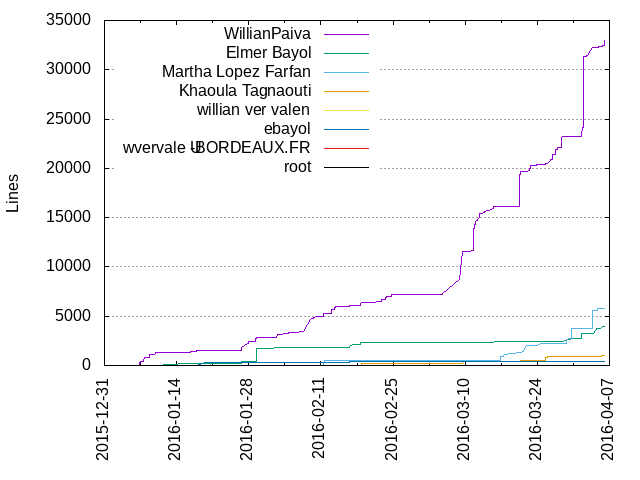
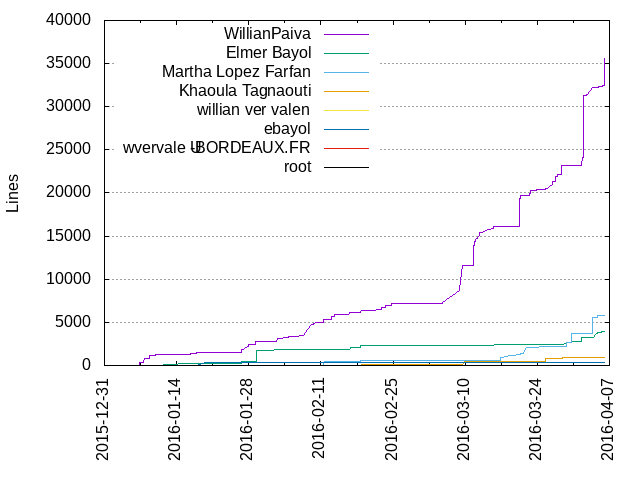
update

diff --git a/GitStats/activity.html b/GitStats/activity.html
@@ -22,27 +22,27 @@
 
 <h2 id="weekly_activity"><a href="#weekly_activity">Weekly activity</a></h2>
 
-<p>Last 32 weeks</p><table class="noborders"><tr><td style="text-align: center; vertical-align: bottom">0<div style="display: block; background-color: red; width: 20px; height: 1px"></div></td><td style="text-align: center; vertical-align: bottom">0<div style="display: block; background-color: red; width: 20px; height: 1px"></div></td><td style="text-align: center; vertical-align: bottom">0<div style="display: block; background-color: red; width: 20px; height: 1px"></div></td><td style="text-align: center; vertical-align: bottom">0<div style="display: block; background-color: red; width: 20px; height: 1px"></div></td><td style="text-align: center; vertical-align: bottom">0<div style="display: block; background-color: red; width: 20px; height: 1px"></div></td><td style="text-align: center; vertical-align: bottom">0<div style="display: block; background-color: red; width: 20px; height: 1px"></div></td><td style="text-align: center; vertical-align: bottom">0<div style="display: block; background-color: red; width: 20px; height: 1px"></div></td><td style="text-align: center; vertical-align: bottom">0<div style="display: block; background-color: red; width: 20px; height: 1px"></div></td><td style="text-align: center; vertical-align: bottom">0<div style="display: block; background-color: red; width: 20px; height: 1px"></div></td><td style="text-align: center; vertical-align: bottom">0<div style="display: block; background-color: red; width: 20px; height: 1px"></div></td><td style="text-align: center; vertical-align: bottom">0<div style="display: block; background-color: red; width: 20px; height: 1px"></div></td><td style="text-align: center; vertical-align: bottom">0<div style="display: block; background-color: red; width: 20px; height: 1px"></div></td><td style="text-align: center; vertical-align: bottom">0<div style="display: block; background-color: red; width: 20px; height: 1px"></div></td><td style="text-align: center; vertical-align: bottom">0<div style="display: block; background-color: red; width: 20px; height: 1px"></div></td><td style="text-align: center; vertical-align: bottom">0<div style="display: block; background-color: red; width: 20px; height: 1px"></div></td><td style="text-align: center; vertical-align: bottom">0<div style="display: block; background-color: red; width: 20px; height: 1px"></div></td><td style="text-align: center; vertical-align: bottom">0<div style="display: block; background-color: red; width: 20px; height: 1px"></div></td><td style="text-align: center; vertical-align: bottom">0<div style="display: block; background-color: red; width: 20px; height: 1px"></div></td><td style="text-align: center; vertical-align: bottom">40<div style="display: block; background-color: red; width: 20px; height: 84px"></div></td><td style="text-align: center; vertical-align: bottom">17<div style="display: block; background-color: red; width: 20px; height: 35px"></div></td><td style="text-align: center; vertical-align: bottom">1<div style="display: block; background-color: red; width: 20px; height: 2px"></div></td><td style="text-align: center; vertical-align: bottom">33<div style="display: block; background-color: red; width: 20px; height: 69px"></div></td><td style="text-align: center; vertical-align: bottom">41<div style="display: block; background-color: red; width: 20px; height: 86px"></div></td><td style="text-align: center; vertical-align: bottom">48<div style="display: block; background-color: red; width: 20px; height: 101px"></div></td><td style="text-align: center; vertical-align: bottom">57<div style="display: block; background-color: red; width: 20px; height: 120px"></div></td><td style="text-align: center; vertical-align: bottom">17<div style="display: block; background-color: red; width: 20px; height: 35px"></div></td><td style="text-align: center; vertical-align: bottom">12<div style="display: block; background-color: red; width: 20px; height: 25px"></div></td><td style="text-align: center; vertical-align: bottom">42<div style="display: block; background-color: red; width: 20px; height: 88px"></div></td><td style="text-align: center; vertical-align: bottom">28<div style="display: block; background-color: red; width: 20px; height: 58px"></div></td><td style="text-align: center; vertical-align: bottom">89<div style="display: block; background-color: red; width: 20px; height: 187px"></div></td><td style="text-align: center; vertical-align: bottom">95<div style="display: block; background-color: red; width: 20px; height: 200px"></div></td><td style="text-align: center; vertical-align: bottom">65<div style="display: block; background-color: red; width: 20px; height: 136px"></div></td></tr><tr><td>32</td><td>31</td><td>30</td><td>29</td><td>28</td><td>27</td><td>26</td><td>25</td><td>24</td><td>23</td><td>22</td><td>21</td><td>20</td><td>19</td><td>18</td><td>17</td><td>16</td><td>15</td><td>14</td><td>13</td><td>12</td><td>11</td><td>10</td><td>9</td><td>8</td><td>7</td><td>6</td><td>5</td><td>4</td><td>3</td><td>2</td><td>1</td></tr></table>
+<p>Last 32 weeks</p><table class="noborders"><tr><td style="text-align: center; vertical-align: bottom">0<div style="display: block; background-color: red; width: 20px; height: 1px"></div></td><td style="text-align: center; vertical-align: bottom">0<div style="display: block; background-color: red; width: 20px; height: 1px"></div></td><td style="text-align: center; vertical-align: bottom">0<div style="display: block; background-color: red; width: 20px; height: 1px"></div></td><td style="text-align: center; vertical-align: bottom">0<div style="display: block; background-color: red; width: 20px; height: 1px"></div></td><td style="text-align: center; vertical-align: bottom">0<div style="display: block; background-color: red; width: 20px; height: 1px"></div></td><td style="text-align: center; vertical-align: bottom">0<div style="display: block; background-color: red; width: 20px; height: 1px"></div></td><td style="text-align: center; vertical-align: bottom">0<div style="display: block; background-color: red; width: 20px; height: 1px"></div></td><td style="text-align: center; vertical-align: bottom">0<div style="display: block; background-color: red; width: 20px; height: 1px"></div></td><td style="text-align: center; vertical-align: bottom">0<div style="display: block; background-color: red; width: 20px; height: 1px"></div></td><td style="text-align: center; vertical-align: bottom">0<div style="display: block; background-color: red; width: 20px; height: 1px"></div></td><td style="text-align: center; vertical-align: bottom">0<div style="display: block; background-color: red; width: 20px; height: 1px"></div></td><td style="text-align: center; vertical-align: bottom">0<div style="display: block; background-color: red; width: 20px; height: 1px"></div></td><td style="text-align: center; vertical-align: bottom">0<div style="display: block; background-color: red; width: 20px; height: 1px"></div></td><td style="text-align: center; vertical-align: bottom">0<div style="display: block; background-color: red; width: 20px; height: 1px"></div></td><td style="text-align: center; vertical-align: bottom">0<div style="display: block; background-color: red; width: 20px; height: 1px"></div></td><td style="text-align: center; vertical-align: bottom">0<div style="display: block; background-color: red; width: 20px; height: 1px"></div></td><td style="text-align: center; vertical-align: bottom">0<div style="display: block; background-color: red; width: 20px; height: 1px"></div></td><td style="text-align: center; vertical-align: bottom">0<div style="display: block; background-color: red; width: 20px; height: 1px"></div></td><td style="text-align: center; vertical-align: bottom">40<div style="display: block; background-color: red; width: 20px; height: 84px"></div></td><td style="text-align: center; vertical-align: bottom">17<div style="display: block; background-color: red; width: 20px; height: 35px"></div></td><td style="text-align: center; vertical-align: bottom">1<div style="display: block; background-color: red; width: 20px; height: 2px"></div></td><td style="text-align: center; vertical-align: bottom">33<div style="display: block; background-color: red; width: 20px; height: 69px"></div></td><td style="text-align: center; vertical-align: bottom">41<div style="display: block; background-color: red; width: 20px; height: 86px"></div></td><td style="text-align: center; vertical-align: bottom">48<div style="display: block; background-color: red; width: 20px; height: 101px"></div></td><td style="text-align: center; vertical-align: bottom">57<div style="display: block; background-color: red; width: 20px; height: 120px"></div></td><td style="text-align: center; vertical-align: bottom">17<div style="display: block; background-color: red; width: 20px; height: 35px"></div></td><td style="text-align: center; vertical-align: bottom">12<div style="display: block; background-color: red; width: 20px; height: 25px"></div></td><td style="text-align: center; vertical-align: bottom">42<div style="display: block; background-color: red; width: 20px; height: 88px"></div></td><td style="text-align: center; vertical-align: bottom">28<div style="display: block; background-color: red; width: 20px; height: 58px"></div></td><td style="text-align: center; vertical-align: bottom">89<div style="display: block; background-color: red; width: 20px; height: 187px"></div></td><td style="text-align: center; vertical-align: bottom">95<div style="display: block; background-color: red; width: 20px; height: 200px"></div></td><td style="text-align: center; vertical-align: bottom">66<div style="display: block; background-color: red; width: 20px; height: 138px"></div></td></tr><tr><td>32</td><td>31</td><td>30</td><td>29</td><td>28</td><td>27</td><td>26</td><td>25</td><td>24</td><td>23</td><td>22</td><td>21</td><td>20</td><td>19</td><td>18</td><td>17</td><td>16</td><td>15</td><td>14</td><td>13</td><td>12</td><td>11</td><td>10</td><td>9</td><td>8</td><td>7</td><td>6</td><td>5</td><td>4</td><td>3</td><td>2</td><td>1</td></tr></table>
 <h2 id="hour_of_day"><a href="#hour_of_day">Hour of Day</a></h2>
 
 <table><tr><th>Hour</th><th>0</th><th>1</th><th>2</th><th>3</th><th>4</th><th>5</th><th>6</th><th>7</th><th>8</th><th>9</th><th>10</th><th>11</th><th>12</th><th>13</th><th>14</th><th>15</th><th>16</th><th>17</th><th>18</th><th>19</th><th>20</th><th>21</th><th>22</th><th>23</th></tr>
-<tr><th>Commits</th><td style="background-color: rgb(159, 0, 0)">18</td><td style="background-color: rgb(161, 0, 0)">19</td><td>0</td><td style="background-color: rgb(130, 0, 0)">2</td><td>0</td><td>0</td><td>0</td><td>0</td><td style="background-color: rgb(139, 0, 0)">7</td><td style="background-color: rgb(141, 0, 0)">8</td><td style="background-color: rgb(148, 0, 0)">12</td><td style="background-color: rgb(170, 0, 0)">24</td><td style="background-color: rgb(166, 0, 0)">22</td><td style="background-color: rgb(193, 0, 0)">37</td><td style="background-color: rgb(222, 0, 0)">53</td><td style="background-color: rgb(208, 0, 0)">45</td><td style="background-color: rgb(247, 0, 0)">67</td><td style="background-color: rgb(255, 0, 0)">71</td><td style="background-color: rgb(188, 0, 0)">34</td><td style="background-color: rgb(193, 0, 0)">37</td><td style="background-color: rgb(175, 0, 0)">27</td><td style="background-color: rgb(195, 0, 0)">38</td><td style="background-color: rgb(172, 0, 0)">25</td><td style="background-color: rgb(197, 0, 0)">39</td></tr>
-<tr><th>%</th><td style="background-color: rgb(159, 0, 0)">3.08</td><td style="background-color: rgb(161, 0, 0)">3.25</td><td>0.00</td><td style="background-color: rgb(130, 0, 0)">0.34</td><td>0.00</td><td>0.00</td><td>0.00</td><td>0.00</td><td style="background-color: rgb(139, 0, 0)">1.20</td><td style="background-color: rgb(141, 0, 0)">1.37</td><td style="background-color: rgb(148, 0, 0)">2.05</td><td style="background-color: rgb(170, 0, 0)">4.10</td><td style="background-color: rgb(166, 0, 0)">3.76</td><td style="background-color: rgb(193, 0, 0)">6.32</td><td style="background-color: rgb(222, 0, 0)">9.06</td><td style="background-color: rgb(208, 0, 0)">7.69</td><td style="background-color: rgb(247, 0, 0)">11.45</td><td style="background-color: rgb(255, 0, 0)">12.14</td><td style="background-color: rgb(188, 0, 0)">5.81</td><td style="background-color: rgb(193, 0, 0)">6.32</td><td style="background-color: rgb(175, 0, 0)">4.62</td><td style="background-color: rgb(195, 0, 0)">6.50</td><td style="background-color: rgb(172, 0, 0)">4.27</td><td style="background-color: rgb(197, 0, 0)">6.67</td></tr></table><img src="hour_of_day.png" alt="Hour of Day">
+<tr><th>Commits</th><td style="background-color: rgb(159, 0, 0)">18</td><td style="background-color: rgb(161, 0, 0)">19</td><td style="background-color: rgb(128, 0, 0)">1</td><td style="background-color: rgb(130, 0, 0)">2</td><td>0</td><td>0</td><td>0</td><td>0</td><td style="background-color: rgb(139, 0, 0)">7</td><td style="background-color: rgb(141, 0, 0)">8</td><td style="background-color: rgb(148, 0, 0)">12</td><td style="background-color: rgb(170, 0, 0)">24</td><td style="background-color: rgb(166, 0, 0)">22</td><td style="background-color: rgb(193, 0, 0)">37</td><td style="background-color: rgb(222, 0, 0)">53</td><td style="background-color: rgb(208, 0, 0)">45</td><td style="background-color: rgb(247, 0, 0)">67</td><td style="background-color: rgb(255, 0, 0)">71</td><td style="background-color: rgb(188, 0, 0)">34</td><td style="background-color: rgb(193, 0, 0)">37</td><td style="background-color: rgb(175, 0, 0)">27</td><td style="background-color: rgb(195, 0, 0)">38</td><td style="background-color: rgb(172, 0, 0)">25</td><td style="background-color: rgb(197, 0, 0)">39</td></tr>
+<tr><th>%</th><td style="background-color: rgb(159, 0, 0)">3.07</td><td style="background-color: rgb(161, 0, 0)">3.24</td><td style="background-color: rgb(128, 0, 0)">0.17</td><td style="background-color: rgb(130, 0, 0)">0.34</td><td>0.00</td><td>0.00</td><td>0.00</td><td>0.00</td><td style="background-color: rgb(139, 0, 0)">1.19</td><td style="background-color: rgb(141, 0, 0)">1.37</td><td style="background-color: rgb(148, 0, 0)">2.05</td><td style="background-color: rgb(170, 0, 0)">4.10</td><td style="background-color: rgb(166, 0, 0)">3.75</td><td style="background-color: rgb(193, 0, 0)">6.31</td><td style="background-color: rgb(222, 0, 0)">9.04</td><td style="background-color: rgb(208, 0, 0)">7.68</td><td style="background-color: rgb(247, 0, 0)">11.43</td><td style="background-color: rgb(255, 0, 0)">12.12</td><td style="background-color: rgb(188, 0, 0)">5.80</td><td style="background-color: rgb(193, 0, 0)">6.31</td><td style="background-color: rgb(175, 0, 0)">4.61</td><td style="background-color: rgb(195, 0, 0)">6.48</td><td style="background-color: rgb(172, 0, 0)">4.27</td><td style="background-color: rgb(197, 0, 0)">6.66</td></tr></table><img src="hour_of_day.png" alt="Hour of Day">
 <h2 id="day_of_week"><a href="#day_of_week">Day of Week</a></h2>
 
-<div class="vtable"><table><tr><th>Day</th><th>Total (%)</th></tr><tr><th>Mon</th><td>57 (9.74%)</td></tr><tr><th>Tue</th><td>132 (22.56%)</td></tr><tr><th>Wed</th><td>62 (10.60%)</td></tr><tr><th>Thu</th><td>70 (11.97%)</td></tr><tr><th>Fri</th><td>101 (17.26%)</td></tr><tr><th>Sat</th><td>103 (17.61%)</td></tr><tr><th>Sun</th><td>60 (10.26%)</td></tr></table></div><img src="day_of_week.png" alt="Day of Week">
+<div class="vtable"><table><tr><th>Day</th><th>Total (%)</th></tr><tr><th>Mon</th><td>57 (9.73%)</td></tr><tr><th>Tue</th><td>132 (22.53%)</td></tr><tr><th>Wed</th><td>63 (10.75%)</td></tr><tr><th>Thu</th><td>70 (11.95%)</td></tr><tr><th>Fri</th><td>101 (17.24%)</td></tr><tr><th>Sat</th><td>103 (17.58%)</td></tr><tr><th>Sun</th><td>60 (10.24%)</td></tr></table></div><img src="day_of_week.png" alt="Day of Week">
 <h2 id="hour_of_week"><a href="#hour_of_week">Hour of Week</a></h2>
 
-<table><tr><th>Weekday</th><th>0</th><th>1</th><th>2</th><th>3</th><th>4</th><th>5</th><th>6</th><th>7</th><th>8</th><th>9</th><th>10</th><th>11</th><th>12</th><th>13</th><th>14</th><th>15</th><th>16</th><th>17</th><th>18</th><th>19</th><th>20</th><th>21</th><th>22</th><th>23</th></tr><tr><th>Mon</th><td></td><td></td><td></td><td></td><td></td><td></td><td></td><td></td><td style="background-color: rgb(136, 0, 0)">2</td><td style="background-color: rgb(136, 0, 0)">2</td><td></td><td style="background-color: rgb(136, 0, 0)">2</td><td></td><td></td><td style="background-color: rgb(141, 0, 0)">3</td><td style="background-color: rgb(141, 0, 0)">3</td><td style="background-color: rgb(183, 0, 0)">12</td><td style="background-color: rgb(164, 0, 0)">8</td><td style="background-color: rgb(150, 0, 0)">5</td><td style="background-color: rgb(169, 0, 0)">9</td><td></td><td style="background-color: rgb(131, 0, 0)">1</td><td></td><td style="background-color: rgb(174, 0, 0)">10</td></tr><tr><th>Tue</th><td style="background-color: rgb(131, 0, 0)">1</td><td style="background-color: rgb(131, 0, 0)">1</td><td></td><td></td><td></td><td></td><td></td><td></td><td></td><td style="background-color: rgb(136, 0, 0)">2</td><td style="background-color: rgb(145, 0, 0)">4</td><td style="background-color: rgb(183, 0, 0)">12</td><td style="background-color: rgb(155, 0, 0)">6</td><td style="background-color: rgb(179, 0, 0)">11</td><td style="background-color: rgb(226, 0, 0)">21</td><td style="background-color: rgb(174, 0, 0)">10</td><td style="background-color: rgb(255, 0, 0)">27</td><td style="background-color: rgb(221, 0, 0)">20</td><td style="background-color: rgb(160, 0, 0)">7</td><td></td><td style="background-color: rgb(145, 0, 0)">4</td><td style="background-color: rgb(136, 0, 0)">2</td><td style="background-color: rgb(136, 0, 0)">2</td><td style="background-color: rgb(136, 0, 0)">2</td></tr><tr><th>Wed</th><td></td><td style="background-color: rgb(179, 0, 0)">11</td><td></td><td></td><td></td><td></td><td></td><td></td><td></td><td></td><td style="background-color: rgb(131, 0, 0)">1</td><td></td><td></td><td style="background-color: rgb(131, 0, 0)">1</td><td style="background-color: rgb(136, 0, 0)">2</td><td style="background-color: rgb(131, 0, 0)">1</td><td style="background-color: rgb(136, 0, 0)">2</td><td style="background-color: rgb(155, 0, 0)">6</td><td style="background-color: rgb(136, 0, 0)">2</td><td style="background-color: rgb(150, 0, 0)">5</td><td style="background-color: rgb(160, 0, 0)">7</td><td style="background-color: rgb(179, 0, 0)">11</td><td style="background-color: rgb(164, 0, 0)">8</td><td style="background-color: rgb(150, 0, 0)">5</td></tr><tr><th>Thu</th><td style="background-color: rgb(150, 0, 0)">5</td><td></td><td></td><td></td><td></td><td></td><td></td><td></td><td></td><td></td><td style="background-color: rgb(141, 0, 0)">3</td><td style="background-color: rgb(160, 0, 0)">7</td><td style="background-color: rgb(136, 0, 0)">2</td><td style="background-color: rgb(136, 0, 0)">2</td><td style="background-color: rgb(145, 0, 0)">4</td><td style="background-color: rgb(164, 0, 0)">8</td><td style="background-color: rgb(136, 0, 0)">2</td><td style="background-color: rgb(202, 0, 0)">16</td><td style="background-color: rgb(169, 0, 0)">9</td><td style="background-color: rgb(131, 0, 0)">1</td><td style="background-color: rgb(131, 0, 0)">1</td><td style="background-color: rgb(150, 0, 0)">5</td><td style="background-color: rgb(141, 0, 0)">3</td><td style="background-color: rgb(136, 0, 0)">2</td></tr><tr><th>Fri</th><td></td><td></td><td></td><td style="background-color: rgb(136, 0, 0)">2</td><td></td><td></td><td></td><td></td><td style="background-color: rgb(150, 0, 0)">5</td><td style="background-color: rgb(145, 0, 0)">4</td><td style="background-color: rgb(141, 0, 0)">3</td><td style="background-color: rgb(131, 0, 0)">1</td><td style="background-color: rgb(145, 0, 0)">4</td><td style="background-color: rgb(164, 0, 0)">8</td><td style="background-color: rgb(155, 0, 0)">6</td><td style="background-color: rgb(160, 0, 0)">7</td><td style="background-color: rgb(202, 0, 0)">16</td><td style="background-color: rgb(155, 0, 0)">6</td><td></td><td style="background-color: rgb(169, 0, 0)">9</td><td style="background-color: rgb(150, 0, 0)">5</td><td style="background-color: rgb(164, 0, 0)">8</td><td></td><td style="background-color: rgb(207, 0, 0)">17</td></tr><tr><th>Sat</th><td style="background-color: rgb(183, 0, 0)">12</td><td style="background-color: rgb(160, 0, 0)">7</td><td></td><td></td><td></td><td></td><td></td><td></td><td></td><td></td><td style="background-color: rgb(131, 0, 0)">1</td><td style="background-color: rgb(131, 0, 0)">1</td><td style="background-color: rgb(174, 0, 0)">10</td><td style="background-color: rgb(198, 0, 0)">15</td><td style="background-color: rgb(183, 0, 0)">12</td><td style="background-color: rgb(145, 0, 0)">4</td><td style="background-color: rgb(131, 0, 0)">1</td><td style="background-color: rgb(179, 0, 0)">11</td><td style="background-color: rgb(169, 0, 0)">9</td><td style="background-color: rgb(155, 0, 0)">6</td><td></td><td style="background-color: rgb(160, 0, 0)">7</td><td style="background-color: rgb(155, 0, 0)">6</td><td style="background-color: rgb(131, 0, 0)">1</td></tr><tr><th>Sun</th><td></td><td></td><td></td><td></td><td></td><td></td><td></td><td></td><td></td><td></td><td></td><td style="background-color: rgb(131, 0, 0)">1</td><td></td><td></td><td style="background-color: rgb(150, 0, 0)">5</td><td style="background-color: rgb(183, 0, 0)">12</td><td style="background-color: rgb(160, 0, 0)">7</td><td style="background-color: rgb(145, 0, 0)">4</td><td style="background-color: rgb(136, 0, 0)">2</td><td style="background-color: rgb(160, 0, 0)">7</td><td style="background-color: rgb(174, 0, 0)">10</td><td style="background-color: rgb(145, 0, 0)">4</td><td style="background-color: rgb(155, 0, 0)">6</td><td style="background-color: rgb(136, 0, 0)">2</td></tr></table>
+<table><tr><th>Weekday</th><th>0</th><th>1</th><th>2</th><th>3</th><th>4</th><th>5</th><th>6</th><th>7</th><th>8</th><th>9</th><th>10</th><th>11</th><th>12</th><th>13</th><th>14</th><th>15</th><th>16</th><th>17</th><th>18</th><th>19</th><th>20</th><th>21</th><th>22</th><th>23</th></tr><tr><th>Mon</th><td></td><td></td><td></td><td></td><td></td><td></td><td></td><td></td><td style="background-color: rgb(136, 0, 0)">2</td><td style="background-color: rgb(136, 0, 0)">2</td><td></td><td style="background-color: rgb(136, 0, 0)">2</td><td></td><td></td><td style="background-color: rgb(141, 0, 0)">3</td><td style="background-color: rgb(141, 0, 0)">3</td><td style="background-color: rgb(183, 0, 0)">12</td><td style="background-color: rgb(164, 0, 0)">8</td><td style="background-color: rgb(150, 0, 0)">5</td><td style="background-color: rgb(169, 0, 0)">9</td><td></td><td style="background-color: rgb(131, 0, 0)">1</td><td></td><td style="background-color: rgb(174, 0, 0)">10</td></tr><tr><th>Tue</th><td style="background-color: rgb(131, 0, 0)">1</td><td style="background-color: rgb(131, 0, 0)">1</td><td></td><td></td><td></td><td></td><td></td><td></td><td></td><td style="background-color: rgb(136, 0, 0)">2</td><td style="background-color: rgb(145, 0, 0)">4</td><td style="background-color: rgb(183, 0, 0)">12</td><td style="background-color: rgb(155, 0, 0)">6</td><td style="background-color: rgb(179, 0, 0)">11</td><td style="background-color: rgb(226, 0, 0)">21</td><td style="background-color: rgb(174, 0, 0)">10</td><td style="background-color: rgb(255, 0, 0)">27</td><td style="background-color: rgb(221, 0, 0)">20</td><td style="background-color: rgb(160, 0, 0)">7</td><td></td><td style="background-color: rgb(145, 0, 0)">4</td><td style="background-color: rgb(136, 0, 0)">2</td><td style="background-color: rgb(136, 0, 0)">2</td><td style="background-color: rgb(136, 0, 0)">2</td></tr><tr><th>Wed</th><td></td><td style="background-color: rgb(179, 0, 0)">11</td><td style="background-color: rgb(131, 0, 0)">1</td><td></td><td></td><td></td><td></td><td></td><td></td><td></td><td style="background-color: rgb(131, 0, 0)">1</td><td></td><td></td><td style="background-color: rgb(131, 0, 0)">1</td><td style="background-color: rgb(136, 0, 0)">2</td><td style="background-color: rgb(131, 0, 0)">1</td><td style="background-color: rgb(136, 0, 0)">2</td><td style="background-color: rgb(155, 0, 0)">6</td><td style="background-color: rgb(136, 0, 0)">2</td><td style="background-color: rgb(150, 0, 0)">5</td><td style="background-color: rgb(160, 0, 0)">7</td><td style="background-color: rgb(179, 0, 0)">11</td><td style="background-color: rgb(164, 0, 0)">8</td><td style="background-color: rgb(150, 0, 0)">5</td></tr><tr><th>Thu</th><td style="background-color: rgb(150, 0, 0)">5</td><td></td><td></td><td></td><td></td><td></td><td></td><td></td><td></td><td></td><td style="background-color: rgb(141, 0, 0)">3</td><td style="background-color: rgb(160, 0, 0)">7</td><td style="background-color: rgb(136, 0, 0)">2</td><td style="background-color: rgb(136, 0, 0)">2</td><td style="background-color: rgb(145, 0, 0)">4</td><td style="background-color: rgb(164, 0, 0)">8</td><td style="background-color: rgb(136, 0, 0)">2</td><td style="background-color: rgb(202, 0, 0)">16</td><td style="background-color: rgb(169, 0, 0)">9</td><td style="background-color: rgb(131, 0, 0)">1</td><td style="background-color: rgb(131, 0, 0)">1</td><td style="background-color: rgb(150, 0, 0)">5</td><td style="background-color: rgb(141, 0, 0)">3</td><td style="background-color: rgb(136, 0, 0)">2</td></tr><tr><th>Fri</th><td></td><td></td><td></td><td style="background-color: rgb(136, 0, 0)">2</td><td></td><td></td><td></td><td></td><td style="background-color: rgb(150, 0, 0)">5</td><td style="background-color: rgb(145, 0, 0)">4</td><td style="background-color: rgb(141, 0, 0)">3</td><td style="background-color: rgb(131, 0, 0)">1</td><td style="background-color: rgb(145, 0, 0)">4</td><td style="background-color: rgb(164, 0, 0)">8</td><td style="background-color: rgb(155, 0, 0)">6</td><td style="background-color: rgb(160, 0, 0)">7</td><td style="background-color: rgb(202, 0, 0)">16</td><td style="background-color: rgb(155, 0, 0)">6</td><td></td><td style="background-color: rgb(169, 0, 0)">9</td><td style="background-color: rgb(150, 0, 0)">5</td><td style="background-color: rgb(164, 0, 0)">8</td><td></td><td style="background-color: rgb(207, 0, 0)">17</td></tr><tr><th>Sat</th><td style="background-color: rgb(183, 0, 0)">12</td><td style="background-color: rgb(160, 0, 0)">7</td><td></td><td></td><td></td><td></td><td></td><td></td><td></td><td></td><td style="background-color: rgb(131, 0, 0)">1</td><td style="background-color: rgb(131, 0, 0)">1</td><td style="background-color: rgb(174, 0, 0)">10</td><td style="background-color: rgb(198, 0, 0)">15</td><td style="background-color: rgb(183, 0, 0)">12</td><td style="background-color: rgb(145, 0, 0)">4</td><td style="background-color: rgb(131, 0, 0)">1</td><td style="background-color: rgb(179, 0, 0)">11</td><td style="background-color: rgb(169, 0, 0)">9</td><td style="background-color: rgb(155, 0, 0)">6</td><td></td><td style="background-color: rgb(160, 0, 0)">7</td><td style="background-color: rgb(155, 0, 0)">6</td><td style="background-color: rgb(131, 0, 0)">1</td></tr><tr><th>Sun</th><td></td><td></td><td></td><td></td><td></td><td></td><td></td><td></td><td></td><td></td><td></td><td style="background-color: rgb(131, 0, 0)">1</td><td></td><td></td><td style="background-color: rgb(150, 0, 0)">5</td><td style="background-color: rgb(183, 0, 0)">12</td><td style="background-color: rgb(160, 0, 0)">7</td><td style="background-color: rgb(145, 0, 0)">4</td><td style="background-color: rgb(136, 0, 0)">2</td><td style="background-color: rgb(160, 0, 0)">7</td><td style="background-color: rgb(174, 0, 0)">10</td><td style="background-color: rgb(145, 0, 0)">4</td><td style="background-color: rgb(155, 0, 0)">6</td><td style="background-color: rgb(136, 0, 0)">2</td></tr></table>
 <h2 id="month_of_year"><a href="#month_of_year">Month of Year</a></h2>
 
-<div class="vtable"><table><tr><th>Month</th><th>Commits (%)</th></tr><tr><td>1</td><td>91 (15.56 %)</td></tr><tr><td>2</td><td>163 (27.86 %)</td></tr><tr><td>3</td><td>202 (34.53 %)</td></tr><tr><td>4</td><td>129 (22.05 %)</td></tr><tr><td>5</td><td>0 (0.00 %)</td></tr><tr><td>6</td><td>0 (0.00 %)</td></tr><tr><td>7</td><td>0 (0.00 %)</td></tr><tr><td>8</td><td>0 (0.00 %)</td></tr><tr><td>9</td><td>0 (0.00 %)</td></tr><tr><td>10</td><td>0 (0.00 %)</td></tr><tr><td>11</td><td>0 (0.00 %)</td></tr><tr><td>12</td><td>0 (0.00 %)</td></tr></table></div><img src="month_of_year.png" alt="Month of Year">
+<div class="vtable"><table><tr><th>Month</th><th>Commits (%)</th></tr><tr><td>1</td><td>91 (15.53 %)</td></tr><tr><td>2</td><td>163 (27.82 %)</td></tr><tr><td>3</td><td>202 (34.47 %)</td></tr><tr><td>4</td><td>130 (22.18 %)</td></tr><tr><td>5</td><td>0 (0.00 %)</td></tr><tr><td>6</td><td>0 (0.00 %)</td></tr><tr><td>7</td><td>0 (0.00 %)</td></tr><tr><td>8</td><td>0 (0.00 %)</td></tr><tr><td>9</td><td>0 (0.00 %)</td></tr><tr><td>10</td><td>0 (0.00 %)</td></tr><tr><td>11</td><td>0 (0.00 %)</td></tr><tr><td>12</td><td>0 (0.00 %)</td></tr></table></div><img src="month_of_year.png" alt="Month of Year">
 <h2 id="commits_by_year/month"><a href="#commits_by_year/month">Commits by year/month</a></h2>
 
-<div class="vtable"><table><tr><th>Month</th><th>Commits</th><th>Lines added</th><th>Lines removed</th></tr><tr><td>2016-04</td><td>129</td><td>12339</td><td>2885</td></tr><tr><td>2016-03</td><td>202</td><td>20220</td><td>13099</td></tr><tr><td>2016-02</td><td>163</td><td>5662</td><td>3647</td></tr><tr><td>2016-01</td><td>91</td><td>4483</td><td>841</td></tr></table></div><img src="commits_by_year_month.png" alt="Commits by year/month">
+<div class="vtable"><table><tr><th>Month</th><th>Commits</th><th>Lines added</th><th>Lines removed</th></tr><tr><td>2016-04</td><td>130</td><td>14927</td><td>2885</td></tr><tr><td>2016-03</td><td>202</td><td>20220</td><td>13099</td></tr><tr><td>2016-02</td><td>163</td><td>5662</td><td>3647</td></tr><tr><td>2016-01</td><td>91</td><td>4483</td><td>841</td></tr></table></div><img src="commits_by_year_month.png" alt="Commits by year/month">
 <h2 id="commits_by_year"><a href="#commits_by_year">Commits by Year</a></h2>
 
-<div class="vtable"><table><tr><th>Year</th><th>Commits (% of all)</th><th>Lines added</th><th>Lines removed</th></tr><tr><td>2016</td><td>585 (100.00%)</td><td>42704</td><td>20472</td></tr></table></div><img src="commits_by_year.png" alt="Commits by Year">
+<div class="vtable"><table><tr><th>Year</th><th>Commits (% of all)</th><th>Lines added</th><th>Lines removed</th></tr><tr><td>2016</td><td>586 (100.00%)</td><td>45292</td><td>20472</td></tr></table></div><img src="commits_by_year.png" alt="Commits by Year">
 <h2 id="commits_by_timezone"><a href="#commits_by_timezone">Commits by Timezone</a></h2>
 
-<table><tr><th>Timezone</th><th>Commits</th></tr><tr><th>+0000</th><td style="background-color: rgb(127, 0, 0)">2</td></tr><tr><th>+0100</th><td style="background-color: rgb(255, 0, 0)">410</td></tr><tr><th>+0200</th><td style="background-color: rgb(181, 0, 0)">173</td></tr></table></body></html>
+<table><tr><th>Timezone</th><th>Commits</th></tr><tr><th>+0000</th><td style="background-color: rgb(127, 0, 0)">2</td></tr><tr><th>+0100</th><td style="background-color: rgb(255, 0, 0)">410</td></tr><tr><th>+0200</th><td style="background-color: rgb(181, 0, 0)">174</td></tr></table></body></html>

diff --git a/GitStats/authors.html b/GitStats/authors.html
@@ -22,7 +22,7 @@
 
 <h2 id="list_of_authors"><a href="#list_of_authors">List of Authors</a></h2>
 
-<table class="authors sortable" id="authors"><tr><th>Author</th><th>Commits (%)</th><th>+ lines</th><th>- lines</th><th>First commit</th><th>Last commit</th><th class="unsortable">Age</th><th>Active days</th><th># by commits</th></tr><tr><td>WillianPaiva</td><td>395 (67.52%)</td><td>32951</td><td>16500</td><td>2016-01-06</td><td>2016-04-06</td><td>90 days, 5:10:29</td><td>48</td><td>1</td></tr><tr><td>Elmer Bayol</td><td>78 (13.33%)</td><td>3983</td><td>2494</td><td>2016-01-15</td><td>2016-04-05</td><td>81 days, 2:16:15</td><td>22</td><td>2</td></tr><tr><td>Martha Lopez Farfan</td><td>43 (7.35%)</td><td>5807</td><td>1530</td><td>2016-01-28</td><td>2016-04-05</td><td>68 days, 7:13:33</td><td>16</td><td>3</td></tr><tr><td>Khaoula Tagnaouti</td><td>37 (6.32%)</td><td>978</td><td>867</td><td>2016-02-16</td><td>2016-04-05</td><td>49 days, 3:51:39</td><td>16</td><td>4</td></tr><tr><td>willian ver valen</td><td>28 (4.79%)</td><td>16</td><td>13</td><td>2016-01-06</td><td>2016-04-06</td><td>90 days, 4:34:19</td><td>9</td><td>5</td></tr><tr><td>ebayol</td><td>2 (0.34%)</td><td>400</td><td>27</td><td>2016-01-19</td><td>2016-02-16</td><td>27 days, 19:45:41</td><td>2</td><td>6</td></tr><tr><td>wvervale@U-BORDEAUX.FR</td><td>1 (0.17%)</td><td>0</td><td>0</td><td>2016-01-06</td><td>2016-01-06</td><td>0:00:00</td><td>1</td><td>7</td></tr><tr><td>root</td><td>1 (0.17%)</td><td>0</td><td>0</td><td>2016-01-06</td><td>2016-01-06</td><td>0:00:00</td><td>1</td><td>8</td></tr></table>
+<table class="authors sortable" id="authors"><tr><th>Author</th><th>Commits (%)</th><th>+ lines</th><th>- lines</th><th>First commit</th><th>Last commit</th><th class="unsortable">Age</th><th>Active days</th><th># by commits</th></tr><tr><td>WillianPaiva</td><td>396 (67.58%)</td><td>35539</td><td>16500</td><td>2016-01-06</td><td>2016-04-06</td><td>90 days, 5:27:07</td><td>48</td><td>1</td></tr><tr><td>Elmer Bayol</td><td>78 (13.31%)</td><td>3983</td><td>2494</td><td>2016-01-15</td><td>2016-04-05</td><td>81 days, 2:16:15</td><td>22</td><td>2</td></tr><tr><td>Martha Lopez Farfan</td><td>43 (7.34%)</td><td>5807</td><td>1530</td><td>2016-01-28</td><td>2016-04-05</td><td>68 days, 7:13:33</td><td>16</td><td>3</td></tr><tr><td>Khaoula Tagnaouti</td><td>37 (6.31%)</td><td>978</td><td>867</td><td>2016-02-16</td><td>2016-04-05</td><td>49 days, 3:51:39</td><td>16</td><td>4</td></tr><tr><td>willian ver valen</td><td>28 (4.78%)</td><td>16</td><td>13</td><td>2016-01-06</td><td>2016-04-06</td><td>90 days, 4:34:19</td><td>9</td><td>5</td></tr><tr><td>ebayol</td><td>2 (0.34%)</td><td>400</td><td>27</td><td>2016-01-19</td><td>2016-02-16</td><td>27 days, 19:45:41</td><td>2</td><td>6</td></tr><tr><td>wvervale@U-BORDEAUX.FR</td><td>1 (0.17%)</td><td>0</td><td>0</td><td>2016-01-06</td><td>2016-01-06</td><td>0:00:00</td><td>1</td><td>7</td></tr><tr><td>root</td><td>1 (0.17%)</td><td>0</td><td>0</td><td>2016-01-06</td><td>2016-01-06</td><td>0:00:00</td><td>1</td><td>8</td></tr></table>
 <h2 id="cumulated_added_lines_of_code_per_author"><a href="#cumulated_added_lines_of_code_per_author">Cumulated Added Lines of Code per Author</a></h2>
 
 <img src="lines_of_code_by_author.png" alt="Lines of code per Author">
@@ -31,10 +31,10 @@
 <img src="commits_by_author.png" alt="Commits per Author">
 <h2 id="author_of_month"><a href="#author_of_month">Author of Month</a></h2>
 
-<table class="sortable" id="aom"><tr><th>Month</th><th>Author</th><th>Commits (%)</th><th class="unsortable">Next top 5</th><th>Number of authors</th></tr><tr><td>2016-04</td><td>WillianPaiva</td><td>68 (52.71% of 129)</td><td>Elmer Bayol, willian ver valen, Khaoula Tagnaouti, Martha Lopez Farfan</td><td>5</td></tr><tr><td>2016-03</td><td>WillianPaiva</td><td>149 (73.76% of 202)</td><td>Khaoula Tagnaouti, Martha Lopez Farfan, Elmer Bayol, willian ver valen</td><td>5</td></tr><tr><td>2016-02</td><td>WillianPaiva</td><td>112 (68.71% of 163)</td><td>Elmer Bayol, Martha Lopez Farfan, willian ver valen, Khaoula Tagnaouti, ebayol</td><td>6</td></tr><tr><td>2016-01</td><td>WillianPaiva</td><td>66 (72.53% of 91)</td><td>Elmer Bayol, willian ver valen, Martha Lopez Farfan, wvervale@U-BORDEAUX.FR, root</td><td>7</td></tr></table>
+<table class="sortable" id="aom"><tr><th>Month</th><th>Author</th><th>Commits (%)</th><th class="unsortable">Next top 5</th><th>Number of authors</th></tr><tr><td>2016-04</td><td>WillianPaiva</td><td>69 (53.08% of 130)</td><td>Elmer Bayol, willian ver valen, Khaoula Tagnaouti, Martha Lopez Farfan</td><td>5</td></tr><tr><td>2016-03</td><td>WillianPaiva</td><td>149 (73.76% of 202)</td><td>Khaoula Tagnaouti, Martha Lopez Farfan, Elmer Bayol, willian ver valen</td><td>5</td></tr><tr><td>2016-02</td><td>WillianPaiva</td><td>112 (68.71% of 163)</td><td>Elmer Bayol, Martha Lopez Farfan, willian ver valen, Khaoula Tagnaouti, ebayol</td><td>6</td></tr><tr><td>2016-01</td><td>WillianPaiva</td><td>66 (72.53% of 91)</td><td>Elmer Bayol, willian ver valen, Martha Lopez Farfan, wvervale@U-BORDEAUX.FR, root</td><td>7</td></tr></table>
 <h2 id="author_of_year"><a href="#author_of_year">Author of Year</a></h2>
 
-<table class="sortable" id="aoy"><tr><th>Year</th><th>Author</th><th>Commits (%)</th><th class="unsortable">Next top 5</th><th>Number of authors</th></tr><tr><td>2016</td><td>WillianPaiva</td><td>395 (67.52% of 585)</td><td>Elmer Bayol, Martha Lopez Farfan, Khaoula Tagnaouti, willian ver valen, ebayol</td><td>8</td></tr></table>
+<table class="sortable" id="aoy"><tr><th>Year</th><th>Author</th><th>Commits (%)</th><th class="unsortable">Next top 5</th><th>Number of authors</th></tr><tr><td>2016</td><td>WillianPaiva</td><td>396 (67.58% of 586)</td><td>Elmer Bayol, Martha Lopez Farfan, Khaoula Tagnaouti, willian ver valen, ebayol</td><td>8</td></tr></table>
 <h2 id="commits_by_domains"><a href="#commits_by_domains">Commits by Domains</a></h2>
 
-<div class="vtable"><table><tr><th>Domains</th><th>Total (%)</th></tr><tr><th>gmail.com</th><td>395 (67.52%)</td></tr><tr><th>emi.u-bordeaux1.fr</th><td>158 (27.01%)</td></tr><tr><th>users.noreply.github.com</th><td>28 (4.79%)</td></tr><tr><th>afa72bc0-e080-48b6-b55f-ca55b9641b91</th><td>2 (0.34%)</td></tr><tr><th>lebris.emi.u-bordeaux1.fr</th><td>1 (0.17%)</td></tr><tr><th>beaufix.emi.u-bordeaux1.fr</th><td>1 (0.17%)</td></tr></table></div><img src="domains.png" alt="Commits by Domains"></body></html>
+<div class="vtable"><table><tr><th>Domains</th><th>Total (%)</th></tr><tr><th>gmail.com</th><td>396 (67.58%)</td></tr><tr><th>emi.u-bordeaux1.fr</th><td>158 (26.96%)</td></tr><tr><th>users.noreply.github.com</th><td>28 (4.78%)</td></tr><tr><th>afa72bc0-e080-48b6-b55f-ca55b9641b91</th><td>2 (0.34%)</td></tr><tr><th>lebris.emi.u-bordeaux1.fr</th><td>1 (0.17%)</td></tr><tr><th>beaufix.emi.u-bordeaux1.fr</th><td>1 (0.17%)</td></tr></table></div><img src="domains.png" alt="Commits by Domains"></body></html>

diff --git a/GitStats/files.html b/GitStats/files.html
@@ -20,11 +20,11 @@
 </ul>
 </div>
 <dl>
-<dt>Total files</dt><dd>232</dd><dt>Total lines</dt><dd>22232</dd><dt>Average file size</dt><dd>1825286.63 bytes</dd></dl>
+<dt>Total files</dt><dd>274</dd><dt>Total lines</dt><dd>24820</dd><dt>Average file size</dt><dd>1546084.83 bytes</dd></dl>
 
 <h2 id="file_count_by_date"><a href="#file_count_by_date">File count by date</a></h2>
 
 <img src="files_by_date.png" alt="Files by Date">
 <h2 id="extensions"><a href="#extensions">Extensions</a></h2>
 
-<table class="sortable" id="ext"><tr><th>Extension</th><th>Files (%)</th><th>Lines (%)</th><th>Lines/file</th></tr><tr><td></td><td>7 (3.02%)</td><td>122 (0.55%)</td><td>17</td></tr><tr><td>PNG</td><td>1 (0.43%)</td><td>197 (0.89%)</td><td>197</td></tr><tr><td>bib</td><td>2 (0.86%)</td><td>63 (0.28%)</td><td>31</td></tr><tr><td>bz2</td><td>30 (12.93%)</td><td>1329679 (5980.92%)</td><td>44322</td></tr><tr><td>conf</td><td>1 (0.43%)</td><td>26 (0.12%)</td><td>26</td></tr><tr><td>css</td><td>2 (0.86%)</td><td>322 (1.45%)</td><td>161</td></tr><tr><td>dia</td><td>25 (10.78%)</td><td>254 (1.14%)</td><td>10</td></tr><tr><td>html</td><td>53 (22.84%)</td><td>8116 (36.51%)</td><td>153</td></tr><tr><td>iml</td><td>1 (0.43%)</td><td>11 (0.05%)</td><td>11</td></tr><tr><td>java</td><td>26 (11.21%)</td><td>4051 (18.22%)</td><td>155</td></tr><tr><td>jpg</td><td>8 (3.45%)</td><td>1577 (7.09%)</td><td>197</td></tr><tr><td>js</td><td>1 (0.43%)</td><td>293 (1.32%)</td><td>293</td></tr><tr><td>json</td><td>1 (0.43%)</td><td>973 (4.38%)</td><td>973</td></tr><tr><td>org</td><td>3 (1.29%)</td><td>54 (0.24%)</td><td>18</td></tr><tr><td>png</td><td>23 (9.91%)</td><td>3330 (14.98%)</td><td>144</td></tr><tr><td>prefs</td><td>1 (0.43%)</td><td>5 (0.02%)</td><td>5</td></tr><tr><td>py</td><td>13 (5.60%)</td><td>1275 (5.73%)</td><td>98</td></tr><tr><td>sh</td><td>1 (0.43%)</td><td>5 (0.02%)</td><td>5</td></tr><tr><td>tex</td><td>22 (9.48%)</td><td>3123 (14.05%)</td><td>141</td></tr><tr><td>txt</td><td>5 (2.16%)</td><td>3304 (14.86%)</td><td>660</td></tr><tr><td>xml</td><td>4 (1.72%)</td><td>449 (2.02%)</td><td>112</td></tr><tr><td>yml</td><td>1 (0.43%)</td><td>4 (0.02%)</td><td>4</td></tr><tr><td>zip</td><td>1 (0.43%)</td><td>909 (4.09%)</td><td>909</td></tr></table></body></html>
+<table class="sortable" id="ext"><tr><th>Extension</th><th>Files (%)</th><th>Lines (%)</th><th>Lines/file</th></tr><tr><td></td><td>7 (2.55%)</td><td>122 (0.49%)</td><td>17</td></tr><tr><td>PNG</td><td>1 (0.36%)</td><td>197 (0.79%)</td><td>197</td></tr><tr><td>bib</td><td>2 (0.73%)</td><td>63 (0.25%)</td><td>31</td></tr><tr><td>bz2</td><td>30 (10.95%)</td><td>1329679 (5357.29%)</td><td>44322</td></tr><tr><td>cache</td><td>1 (0.36%)</td><td>101 (0.41%)</td><td>101</td></tr><tr><td>conf</td><td>1 (0.36%)</td><td>26 (0.10%)</td><td>26</td></tr><tr><td>css</td><td>3 (1.09%)</td><td>467 (1.88%)</td><td>155</td></tr><tr><td>dat</td><td>10 (3.65%)</td><td>1802 (7.26%)</td><td>180</td></tr><tr><td>dia</td><td>25 (9.12%)</td><td>254 (1.02%)</td><td>10</td></tr><tr><td>gif</td><td>3 (1.09%)</td><td>6 (0.02%)</td><td>2</td></tr><tr><td>html</td><td>59 (21.53%)</td><td>8300 (33.44%)</td><td>140</td></tr><tr><td>iml</td><td>1 (0.36%)</td><td>11 (0.04%)</td><td>11</td></tr><tr><td>java</td><td>26 (9.49%)</td><td>4051 (16.32%)</td><td>155</td></tr><tr><td>jpg</td><td>8 (2.92%)</td><td>1577 (6.35%)</td><td>197</td></tr><tr><td>js</td><td>2 (0.73%)</td><td>617 (2.49%)</td><td>308</td></tr><tr><td>json</td><td>1 (0.36%)</td><td>973 (3.92%)</td><td>973</td></tr><tr><td>org</td><td>3 (1.09%)</td><td>54 (0.22%)</td><td>18</td></tr><tr><td>plot</td><td>10 (3.65%)</td><td>127 (0.51%)</td><td>12</td></tr><tr><td>png</td><td>33 (12.04%)</td><td>3590 (14.46%)</td><td>108</td></tr><tr><td>prefs</td><td>1 (0.36%)</td><td>5 (0.02%)</td><td>5</td></tr><tr><td>py</td><td>13 (4.74%)</td><td>1275 (5.14%)</td><td>98</td></tr><tr><td>sh</td><td>1 (0.36%)</td><td>5 (0.02%)</td><td>5</td></tr><tr><td>tex</td><td>22 (8.03%)</td><td>3123 (12.58%)</td><td>141</td></tr><tr><td>txt</td><td>5 (1.82%)</td><td>3304 (13.31%)</td><td>660</td></tr><tr><td>xml</td><td>4 (1.46%)</td><td>449 (1.81%)</td><td>112</td></tr><tr><td>yml</td><td>1 (0.36%)</td><td>4 (0.02%)</td><td>4</td></tr><tr><td>zip</td><td>1 (0.36%)</td><td>909 (3.66%)</td><td>909</td></tr></table></body></html>

diff --git a/GitStats/index.html b/GitStats/index.html
@@ -19,5 +19,5 @@
 <li><a href="tags.html">Tags</a></li>
 </ul>
 </div>
-<dl><dt>Project name</dt><dd>dominion_datamining</dd><dt>Generated</dt><dd>2016-04-06 02:12:19 (in 10 seconds)</dd><dt>Generator</dt><dd><a href="http://gitstats.sourceforge.net/">GitStats</a> (version 55c5c28), git version 2.8.0, gnuplot 5.0 patchlevel 2</dd><dt>Report Period</dt><dd>2016-01-06 20:45:37 to 2016-04-06 01:58:48</dd><dt>Age</dt><dd>91 days, 61 active days (67.03%)</dd><dt>Total Files</dt><dd>232</dd><dt>Total Lines of Code</dt><dd>22232 (42704 added, 20472 removed)</dd><dt>Total Commits</dt><dd>585 (average 9.6 commits per active day, 6.4 per all days)</dd><dt>Authors</dt><dd>8 (average 73.1 commits per author)</dd></dl></body>
+<dl><dt>Project name</dt><dd>dominion_datamining</dd><dt>Generated</dt><dd>2016-04-06 02:14:43 (in 9 seconds)</dd><dt>Generator</dt><dd><a href="http://gitstats.sourceforge.net/">GitStats</a> (version 55c5c28), git version 2.8.0, gnuplot 5.0 patchlevel 2</dd><dt>Report Period</dt><dd>2016-01-06 20:45:37 to 2016-04-06 02:12:44</dd><dt>Age</dt><dd>92 days, 61 active days (66.30%)</dd><dt>Total Files</dt><dd>274</dd><dt>Total Lines of Code</dt><dd>24820 (45292 added, 20472 removed)</dd><dt>Total Commits</dt><dd>586 (average 9.6 commits per active day, 6.4 per all days)</dd><dt>Authors</dt><dd>8 (average 73.2 commits per author)</dd></dl></body>
 </html>

diff --git a/GitStats/lines.html b/GitStats/lines.html
@@ -20,7 +20,7 @@
 </ul>
 </div>
 <dl>
-<dt>Total lines</dt><dd>22232</dd></dl>
+<dt>Total lines</dt><dd>24820</dd></dl>
 
 <h2 id="lines_of_code"><a href="#lines_of_code">Lines of Code</a></h2>
 
